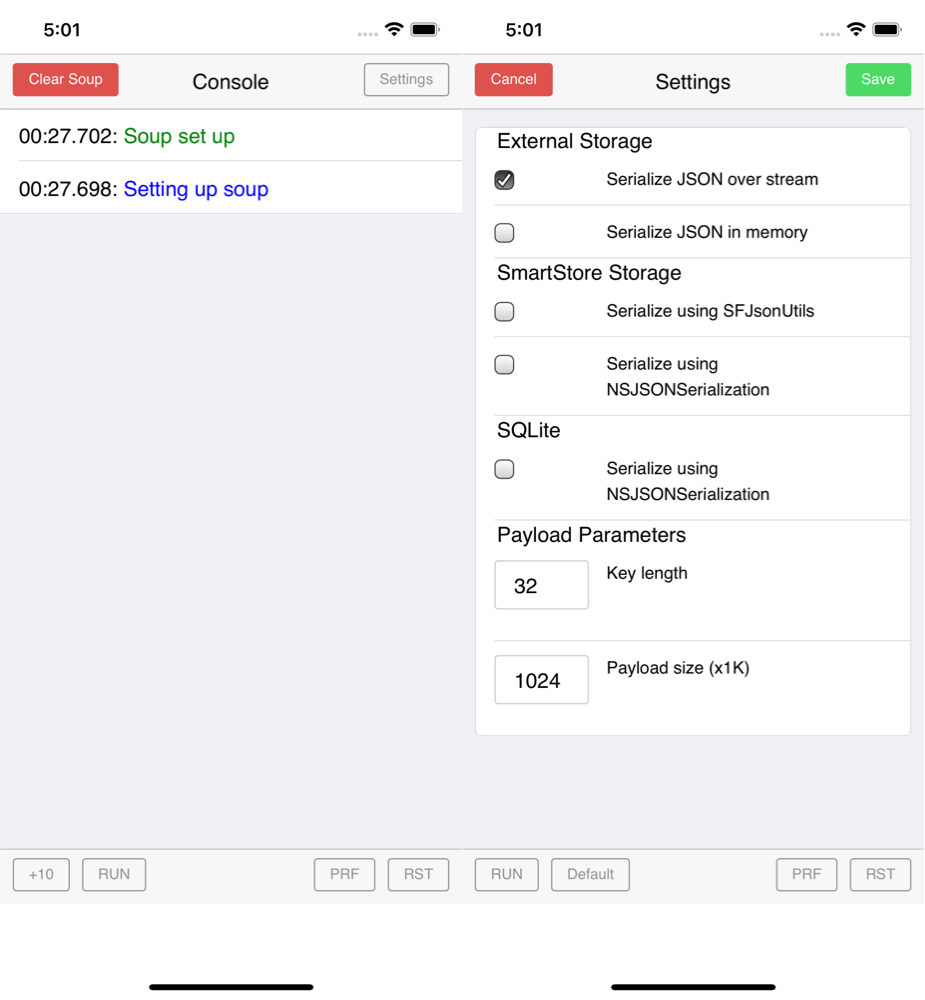
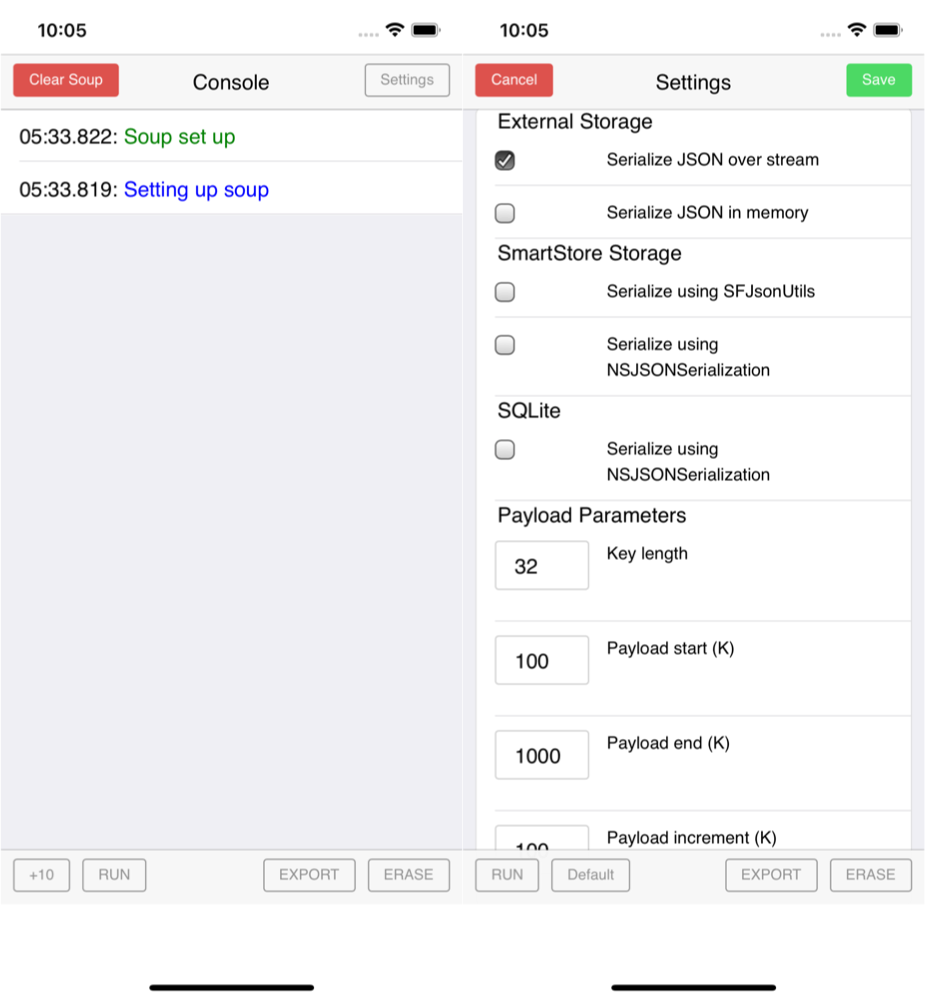
update README and added options to run finer grain tests

diff --git a/www/app.js b/www/app.js
@@ -13,6 +13,8 @@ var presetDefault = {
     rawSqlite: false,
     // Shape of entries
     keyLength: 32,
+    valueStart: 100,
+    valueIncrement: 100,
     valueLength: 1000
 }
 
@@ -110,7 +112,10 @@ function populateSettingsInputs(s) {
     if (s.hasOwnProperty("inputRawSQLite")) document.getElementById("inputRawSQLite").checked = s.rawSQLite
 
     if (s.hasOwnProperty("keyLength")) document.getElementById("inputKeyLength").value = s.keyLength
+    if (s.hasOwnProperty("valueStart")) document.getElementById("inputValueStart").value = s.valueStart
     if (s.hasOwnProperty("valueLength")) document.getElementById("inputValueLength").value = s.valueLength
+    if (s.hasOwnProperty("valueIncrement")) document.getElementById("inputValueIncrement").value = s.valueIncrement
+
 }
 
 // Function invoked when a btnOpenSettings is pressed
@@ -134,7 +139,10 @@ function onSaveSettings() {
     settings.rawSQLite = document.getElementById("inputRawSQLite").checked
 
     settings.keyLength = parseInt(document.getElementById("inputKeyLength").value)
+    settings.valueStart = parseInt(document.getElementById("inputValueStart").value)
     settings.valueLength = parseInt(document.getElementById("inputValueLength").value)
+    settings.valueIncrement = parseInt(document.getElementById("inputValueIncrement").value)
+
     // Hide
     showHideSettings(false)
 
@@ -194,36 +202,55 @@ function onInsert(n, i, start, actuallyAdded) {
     }
 }
 
-function sleep(ms) {
-    return new Promise(resolve => setTimeout(resolve, ms));
-}
+//function sleep(ms) {
+//    return new Promise(resolve => setTimeout(resolve, ms));
+//}
 
-async function onRunTests() {
-    var delay = 5000
-    for (var size = 100; size <= 2000; size += 100) {
-        settings.valueLength = size
-        await setupSoup(true)
-        await sleep(1000)
-        await onInsert(10)
-        await sleep(delay)
-        delay = delay + 100
+// n - number of tests to run for ps .. pe by pi
+// ps - payload start
+// pe - payload end
+// pi - payload increment
+// i  - current index to n
+// pa - actual value from ps .. pe
+function onRunTest(n, ps, pe, pi, i, pa, start, actuallyAdded) {
+    var entrySize = getEntrySizeAsString()
+    i = i || 0
+    start = start || time()
+    actuallyAdded = actuallyAdded || 0
+    pa = pa || ps
+    
+    if (i === 0 && pa <= pe) {
+        log(`+ ${n} x ${entrySize} @ ${pa}`, "blue")
     }
-    log(`Tests complete`, "green")
+            
+    if (pa <= pe) {
+        if (i < n) {
+            storeClient.upsertSoupEntries(STORE_CONFIG, SOUPNAME, [generateEntry()])
+                .then(() => { return onRunTest(n, ps, pe, pi, i+1, pa, start, actuallyAdded+1) } )
+                .catch(() => { return onRunTest(n, ps, pe, pi, i+1, pa, start, actuallyAdded) } )
+        } else {
+            var elapsedTime = time() - start
+            log(`+ ${actuallyAdded} in ${elapsedTime} ms`, "green")
+            onRunTest(n, ps, pe, pi, 0, pa + pi)
+        }
+    } else {
+        log(`Test run complete`, "green")
+    }
 }
 
 function onReset() {
-    log("Reset perf DB", "blue")
+    log("Erase perf data", "blue")
     storeClient.resetPerfDb(STORE_CONFIG, SOUPNAME)
         .then(() => {
-            log("Perf DB reset complete", "green")
+            log("Perf data erased", "green")
         })
 }
 
 function onDump() {
-    log("Dumping perf DB", "blue")
+    log("Export perf data", "blue")
     storeClient.dumpPerfDb(STORE_CONFIG, SOUPNAME)
         .then(() => {
-            log(`Perf DB dump complete`, "green")
+            log(`Perf data exported`, "green")
         })
 }
 
@@ -328,7 +355,7 @@ function main() {
         document.getElementById('btnClear').addEventListener("click", onClear)
         document.getElementById('btnInsert10').addEventListener("click", () => { onInsert(10) })
 
-        document.getElementById('btnRunTests').addEventListener("click", () => { onRunTests() })
+        document.getElementById('btnRunTests').addEventListener("click", () => { onRunTest(10, settings.valueStart, settings.valueLength, settings.valueIncrement) })
 
         document.getElementById('btnReset').addEventListener("click", () => { onReset() })
         document.getElementById('btnDump').addEventListener("click", () => { onDump() })

diff --git a/www/index.html b/www/index.html
@@ -85,15 +85,23 @@
                 <input type="number" id="inputKeyLength">
             </li>
             <li class="table-view-cell">
-                <label>Payload size (x1K)</label>
+                <label>Payload start (K)</label>
+                <input type="number" id="inputValueStart">
+            </li>
+            <li class="table-view-cell">
+                <label>Payload end (K)</label>
                 <input type="number" id="inputValueLength">
+            </li>
+            <li class="table-view-cell">
+                <label>Payload increment (K)</label>
+                <input type="number" id="inputValueIncrement">
             </li>
         </ul>
 
         <!-- Console -->
         <ul id="ulConsole" class="table-view">
         </ul>
-    </div>
+    </div>/var/folders/cc/sd002hds0v9624fg9txs5vnh0000gp/T/simulator_screenshot_24D47A1C-C12C-41C5-BE3D-4B9B7408F6C8.png
 
     <!-- Bottom bar -->
     <nav class="bar bar-footer">
@@ -101,15 +109,11 @@
       <button class="btn pull-left" id="btnInsert10">+10</button>
       <button class="btn pull-left" id="btnRunTests">RUN</button>
 
-      <button class="btn pull-right" id="btnReset">RST</button>
-      <button class="btn pull-right" id="btnDump">PRF</button>
-      <!--
-      <button class="btn pull-left" id="btnInsert100">+ 100</button>
-      <button class="btn pull-right" id="btnQueryAll1By1">Q 1 by 1</button>
-      <button class="btn pull-right" id="btnQueryAll10By10">Q 10 by 10</button>
-      -->
+      <button class="btn pull-right" id="btnReset">ERASE</button>
+      <button class="btn pull-right" id="btnDump">EXPORT</butto>
+
       <!-- Buttons for settings screen -->
       <button class="btn hidden" id="btnPresetDefault">Default</button>
     </nav>
-</body>
+</body>/var/folders/cc/sd002hds0v9624fg9txs5vnh0000gp/T/simulator_screenshot_30533063-4841-413F-9F5E-1D18847D9313.png
 </html>

diff --git a/README.md b/README.md
@@ -21,7 +21,9 @@ Through the settings screen one can control the shape of the records and whether
 - SQLite
     - Serialize using NSJSONSerialization: Write to SQLite without use SmartStore
 - Key length: Length of keys in JSON object
-- Payload size (x1K): Size of JSON payload to write to DB
+- Payload start (K): Initial size of JSON payload
+- Payload end (K): Final size of JSON payload
+- Payload increment (K): Payload increment size
 
 **Note:**
 The settings screen will be simplified and additional information recorded based on the options.
@@ -42,8 +44,8 @@ Actions:
 - Clear Soup: Empty the soup
 - +10: Insert 10 records based on Payload size in Settings
 - RUN: Run a set of tests writing 10 records starting from 100K and ending at 2000K
-- PRF: Generates performance data (as CSV) so it can be accessed via the Files app
-- RST: Remove performance data
+- EXPORT: Exports performance in CSV form which can be accessed via the Files App
+- ERASE: Erase performance data
 
 Screen shows ouput for most recent operation first:
 - Blue is for the beginning of an operation
